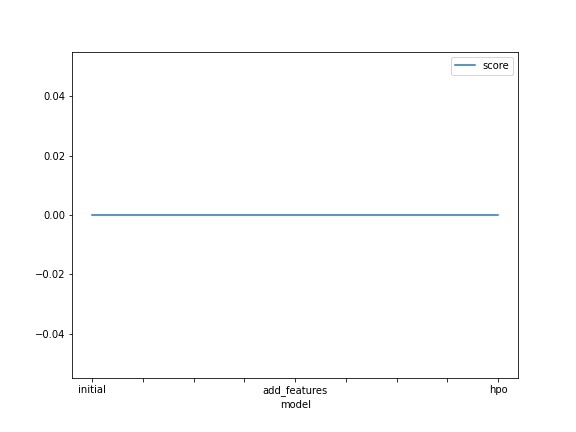
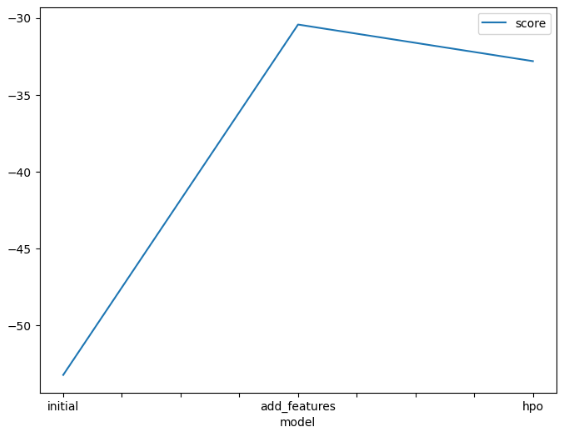
✨ Update report-template.md file and add model test and train image

diff --git a/project/report-template.md b/project/report-template.md
@@ -1,33 +1,41 @@
 # Report: Predict Bike Sharing Demand with AutoGluon Solution
-#### NAME HERE
+#### Sourabh Kumar
 
 ## Initial Training
 ### What did you realize when you tried to submit your predictions? What changes were needed to the output of the predictor to submit your results?
-TODO: Add your explanation
+The second time I submitted my predictions, I got an error from Kaggle saying that there were unexpected columns in the file. I saw that AutoGluon's output included all the features used during training, but Kaggle only allows datetime and count. To fix this, I made a new DataFrame with just the datetime column from the test set and the predicted count values. I also clipped any negative values to zero since Kaggle doesn't allow negative counts.
 
 ### What was the top ranked model that performed?
-TODO: Add your explanation
+The top-ranked model was WeightedEnsemble_L3. This model combined other models and used stacking to improve predictions.
 
 ## Exploratory data analysis and feature creation
 ### What did the exploratory analysis find and how did you add additional features?
-TODO: Add your explanation
+I made a correlation heatmap and saw that hour had a positive relationship with count. Based on that, I extracted hour from the datetime column. I also added day and month. I changed features like season and weather to category data type so AutoGluon could process them better.
 
 ### How much better did your model preform after adding additional features and why do you think that is?
-TODO: Add your explanation
+After adding hour, day, and month, the validation RMSE went from 53.10 to 30.33, and my Kaggle score went from 1.80401 to 0.61001. These changes helped because bike rentals follow patterns based on time. Adding these features made those patterns easier for the model to learn.
 
 ## Hyper parameter tuning
 ### How much better did your model preform after trying different hyper parameters?
-TODO: Add your explanation
+I used a learning rate of 0.05 and set the number of iterations to 5000 for LightGBM (GBM), CatBoost (CAT), and XGBoost (XGB). I used 300 estimators for Random Forest. I didn't use early stopping. Instead, I relied on the 600-second time limit. AutoGluon handled the tuning using hyperparameter_tune_kwargs="auto".
+
+I initially tested 10,000 iterations for all boosting models, but most runs ended early due to the 600-second limit. After reducing to 5,000 iterations, the Kaggle public score improved. The validation RMSE increased slightly from 30.33 to 32.75, but the public Kaggle score dropped from 0.61001 to 0.49175. This was slightly higher than the score of 0.47908 achieved with 10,000 iterations. Even though validation error worsened, the final model still generalized well.
+
+This shows that tuning can help improve performance on test data, even if internal validation metrics don't improve. Using a lower iteration count allowed AutoGluon to try more model types and configurations, which may have contributed to the better test score.
 
 ### If you were given more time with this dataset, where do you think you would spend more time?
-TODO: Add your explanation
+I would try more feature changes, like making new features for rush hour, binning temperature, and combining weather data. I would also test training models separately instead of stacking. I would explore more tuning methods and increase the number of tuning trials.
+
 
 ### Create a table with the models you ran, the hyperparameters modified, and the kaggle score.
-|model|hpo1|hpo2|hpo3|score|
-|--|--|--|--|--|
-|initial|?|?|?|?|
-|add_features|?|?|?|?|
-|hpo|?|?|?|?|
+| model        | hpo1                 | hpo2                         | hpo3              | score   |
+| ------------ | -------------------- | ---------------------------- | ----------------- | ------- |
+| initial      | default              | default                      | default           | 1.80401
+ |
+| add_features | default              | added `hour`, `day`, `month` | default           | 0.61001 |
+| hpo          | learning_rate = 0.05 | num_boost_round = 5000       | no early stopping | 0.49175 |
+
+
 
 ### Create a line plot showing the top model score for the three (or more) training runs during the project.
 
@@ -42,4 +50,6 @@ TODO: Replace the image below with your own.
 ![model_test_score.png](img/model_test_score.png)
 
 ## Summary
-TODO: Add your explanation
+I started with a default model, added new features, and tuned the hyperparameters. The validation RMSE went from 53.10 to 30.33 after feature changes. After tuning, it rose to 32.75, but the Kaggle score still improved from 1.80401 to 0.49175.
+
+The final model worked better on test data even though the validation score wasn't the best. If I had more time, I would keep testing features, try new models, and run longer tuning sessions. AutoGluon made it easy to test different ideas and get results quickly.
